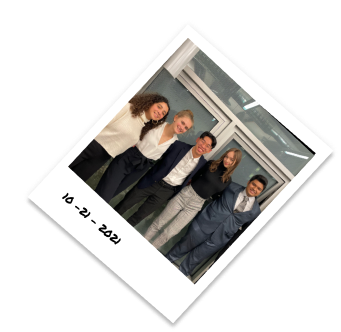
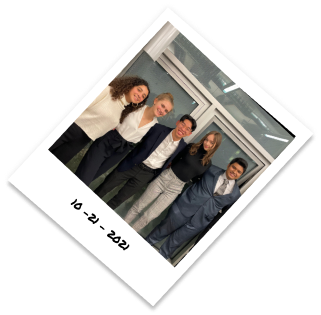
Updated Polaroid Feature and Front Landing Page

Changed region(s): [[0.0312, 0.0571, 0.9969, 1.0], [0.1869, 0.5714, 0.405, 0.8], [0.3738, 0.4857, 0.405, 0.5143]]

diff --git a/index.html b/index.html
@@ -11,12 +11,6 @@
 
     <body>
         <!-- Nav Bar-->
-        <div class="topnav">
-            <a class="name" href="./index.html" style="font-weight: bold; font-size: 32px;">martin tang</a>
-            <a class="tabs" href="./Martin_Tang_Resume.pdf" download>RESUME</a>
-            <a class="tabs" href="./pages/aboutme.html">ABOUT ME</a>
-            <a class="tabs" href="./pages/projects.html">PROJECTS</a>
-        </div>
         <!-- Main Page-->
         <div class="flex-main">
             <!-- Left Box-->
@@ -29,7 +23,15 @@
             </div>
             <!-- Right Box-->
             <div class="flex-right">
-                <h1> what up</h1>
+                <div class="image-stack">
+                    <img style="grid-column: 8; grid-row: 10;" src="./assets/polaroids/Resume.png" />
+                    <img style="grid-column: 3; grid-row: 1;" src="./assets/polaroids/Apsc100.png" />
+                    <img style="grid-column: 1; grid-row: 7;" src="./assets/polaroids/Sunset.png" />
+                    <img style="grid-column: 7; grid-row: 5;" src="./assets/polaroids/Hongkongpng.png" />
+                    <img style="grid-column: 3; grid-row: 11;" src="./assets/polaroids/Aboutme.png" />
+                    <img style="grid-column: 4; grid-row: 5;"src="./assets/polaroids/Jetski.png" />
+                    <img style="grid-column: 5; grid-row: 9;" src="./assets/polaroids/Projects.png" />
+                </div>                
             </div>
         </div>
         <div class="featured_work">

diff --git a/styles/style.css b/styles/style.css
@@ -4,7 +4,7 @@
 }
 
 body {
-    max-width: 60rem;
+    max-width: 70rem;
     margin-right: auto;
     margin-left: auto;
     width: 80vw;
@@ -22,7 +22,7 @@ h5 {
 }
 
 h1 {
-    font-size: 40px;
+    font-size: 50px;
     margin: 5px 0px 10px 0px;
 }
 
@@ -60,16 +60,19 @@ h3 {
     flex-direction: row;
 }
 .flex-left {
-    width: 50%;
-    padding: 50px;
-    padding-top: 12rem;
-    background-color: beige;
-    border: 2px solid red;
+    width: 40%;
+    padding-top: 23%;
+    padding-bottom: 2%;
 }
 .flex-right {
-    width: 50%;
-    background-color: bisque;
-    border: 2px solid red;
+    width: 60%;
+}
+.image-stack{
+    display: grid;
+    grid-template-columns: repeat(12, 55px);
+    grid-template-rows: repeat(19, 47px);
+    padding-left: 5%;
+
 }
 
 .wave {
@@ -93,7 +96,7 @@ h3 {
 
 /* FEATUERED WORK */
 .featured_work {
-    margin-top: 10rem;
+    margin-top: -5%;
 }
 .work_list {
     list-style: none;
